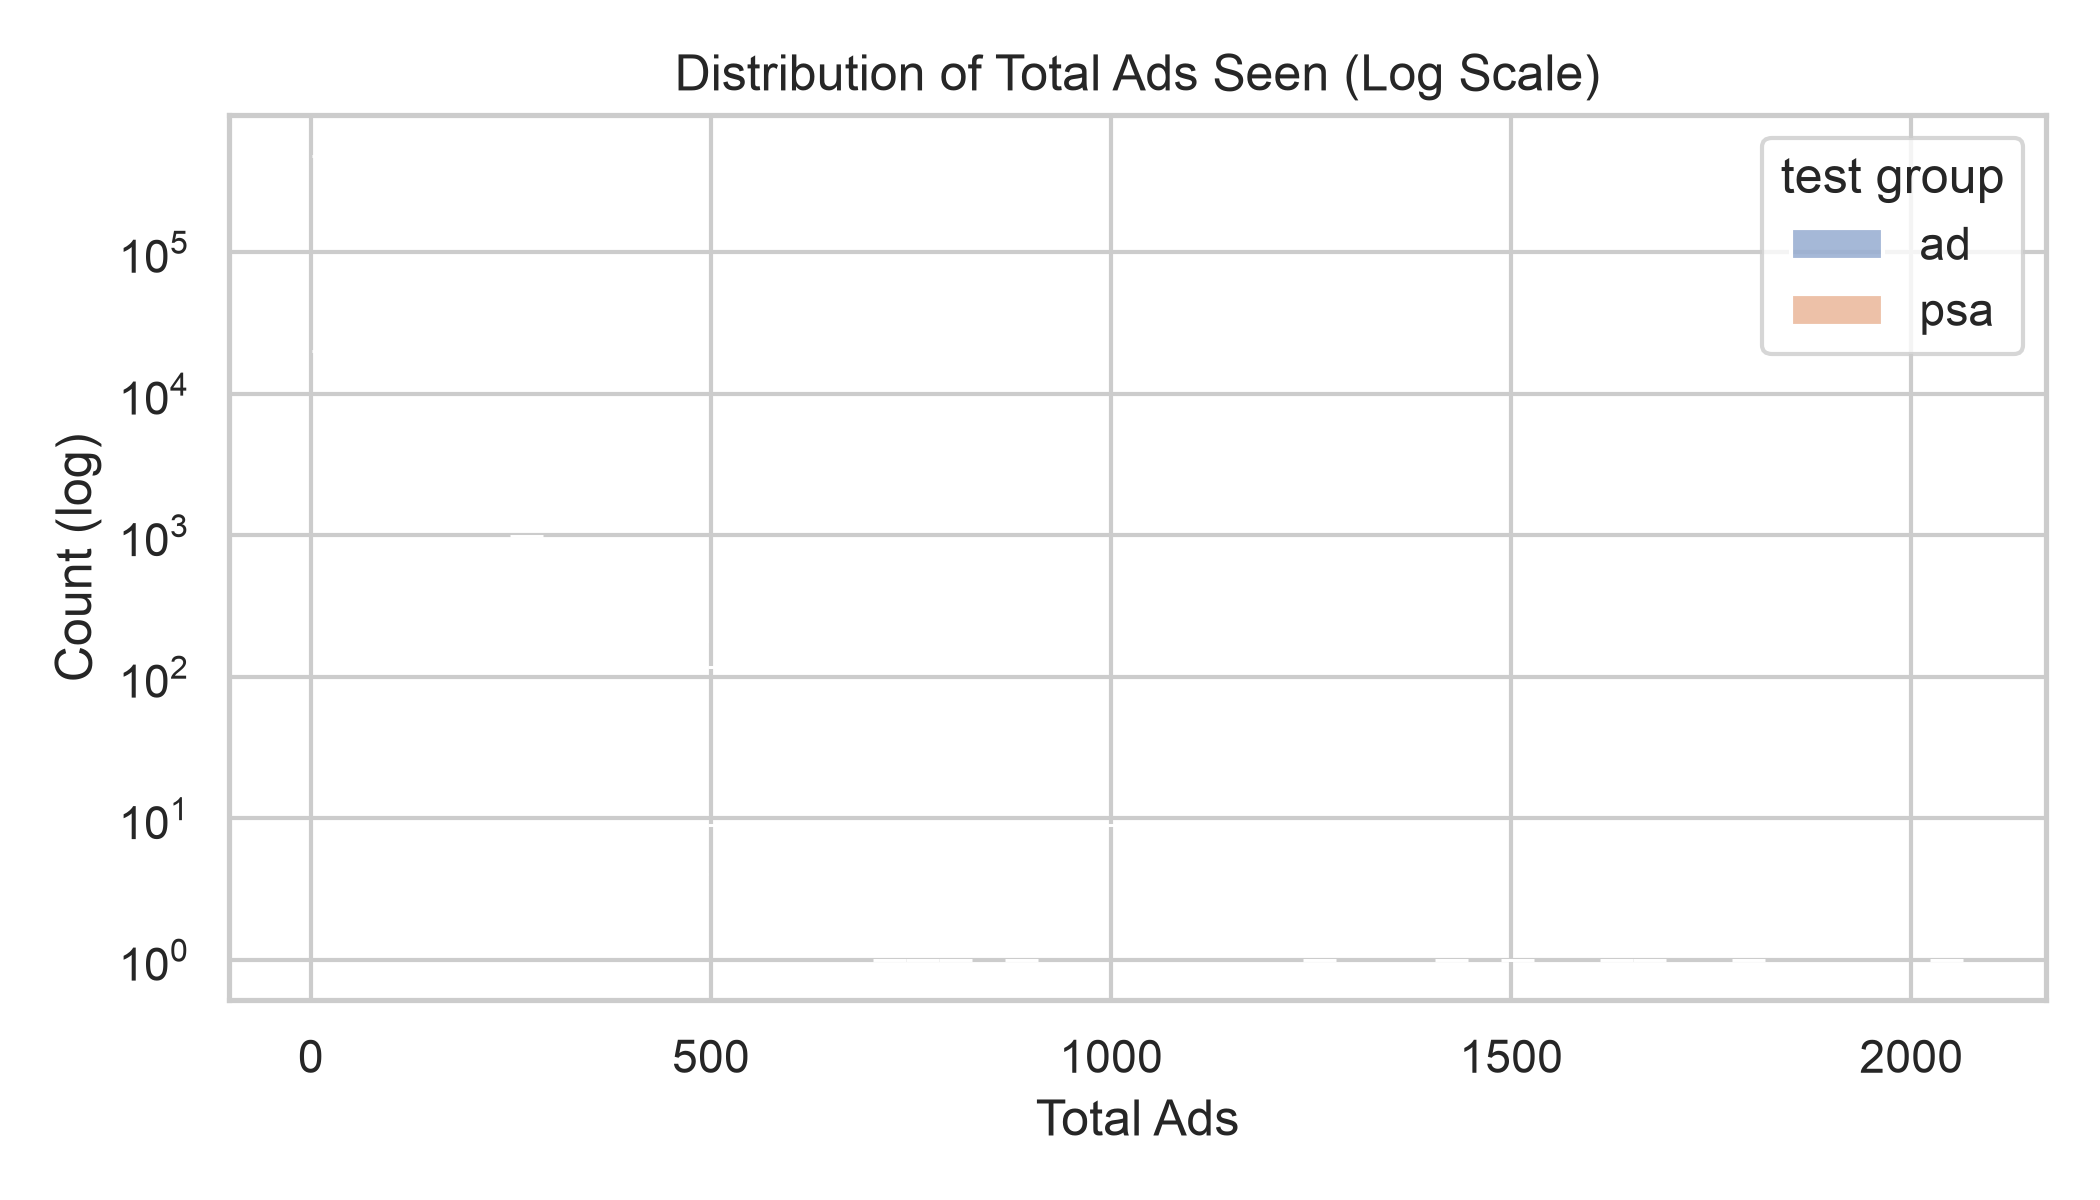
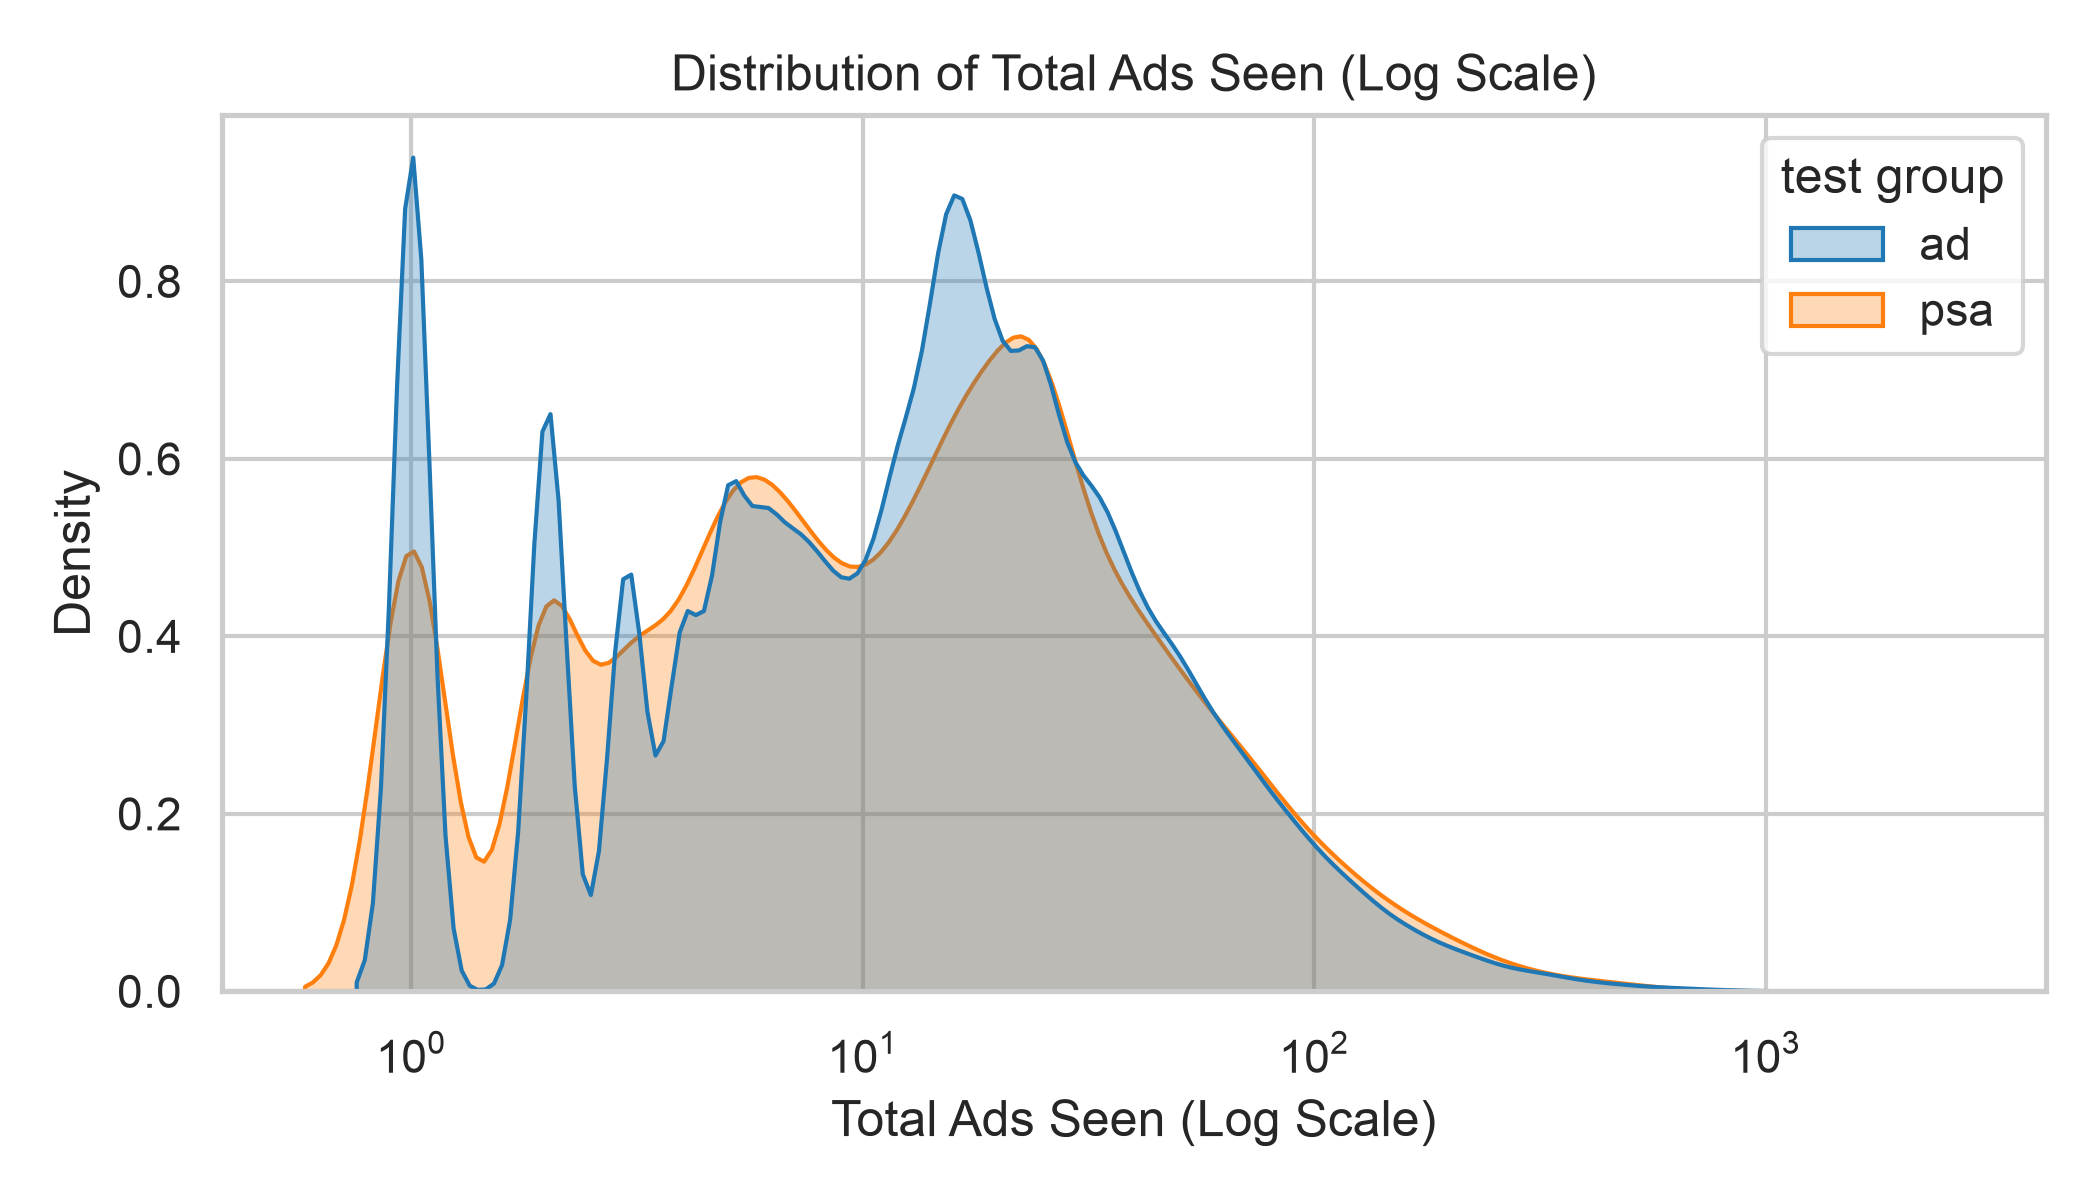
Fix total ads distribution plot using log-scale KDE

Changed region(s): [[0.031, 0.0925, 0.9595, 0.9558], [0.3095, 0.0308, 0.7738, 0.0925]]

diff --git a/src/power_analysis.py b/src/power_analysis.py
@@ -32,23 +32,45 @@ def run_eda(df: pd.DataFrame) -> None:
     # 1. Conversion Rate by Group
     plt.figure(figsize=(6, 4))
     conv_by_group = df.groupby("test group")["converted"].mean().reset_index()
-    ax = sns.barplot(x="test group", y="converted", data=conv_by_group, palette="Blues_d")
+    ax = sns.barplot(
+        x="test group",
+        y="converted",
+        hue="test group",
+        data=conv_by_group,
+        palette="Blues_d",
+        legend=False,
+    )
     plt.title("Conversion Rate by Group")
     plt.ylabel("Conversion Rate")
     plt.xlabel("Test Group")
     for p in ax.patches:
-        ax.annotate(f"{p.get_height():.4f}", (p.get_x() + p.get_width() / 2.0, p.get_height()),
-                    ha="center", va="center", xytext=(0, 5), textcoords="offset points")
+        ax.annotate(
+            f"{p.get_height():.4f}",
+            (p.get_x() + p.get_width() / 2.0, p.get_height()),
+            ha="center",
+            va="center",
+            xytext=(0, 5),
+            textcoords="offset points",
+        )
     plt.tight_layout()
     plt.savefig(FIGURES_PATH / "conversion_rate_by_group.png", dpi=300)
     plt.close()
 
-    # 2. Total Ads Distribution (log scale due to right-skew)
+    # 2. Total Ads Distribution (KDE with log-scale x-axis to cleanly display skew)
     plt.figure(figsize=(7, 4))
-    sns.histplot(data=df, x="total ads", hue="test group", bins=50, log_scale=(False, True), common_norm=False)
+    sns.kdeplot(
+        data=df,
+        x="total ads",
+        hue="test group",
+        common_norm=False,
+        log_scale=True,
+        fill=True,
+        alpha=0.3,
+        palette="tab10",
+    )
     plt.title("Distribution of Total Ads Seen (Log Scale)")
-    plt.xlabel("Total Ads")
-    plt.ylabel("Count (log)")
+    plt.xlabel("Total Ads Seen (Log Scale)")
+    plt.ylabel("Density")
     plt.tight_layout()
     plt.savefig(FIGURES_PATH / "total_ads_distribution.png", dpi=300)
     plt.close()
